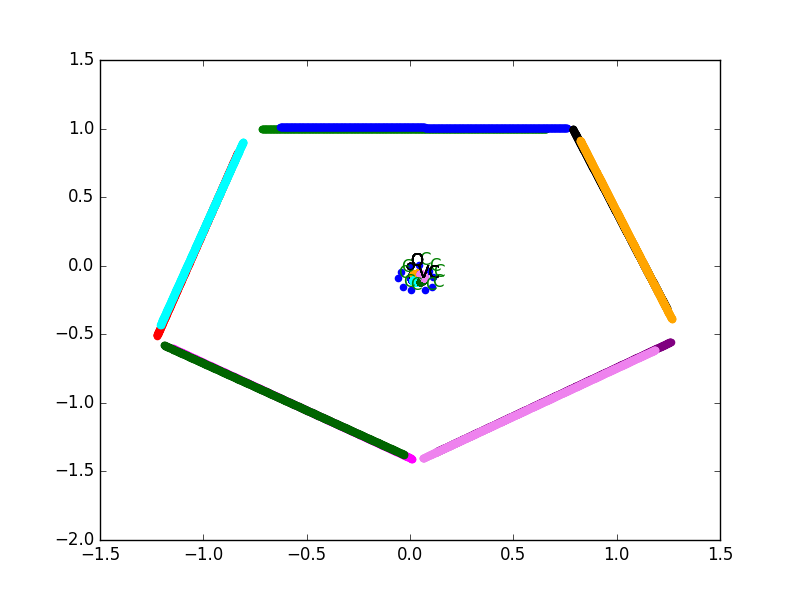
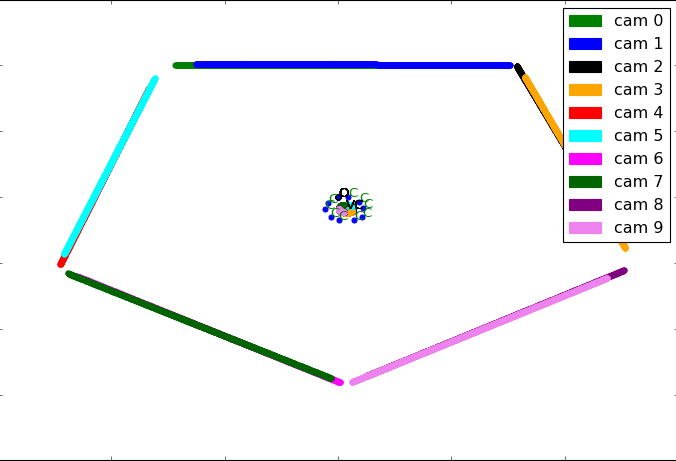
- changing plots from cv.imshow to matplotlib for convenience - Removed other unwanted functions - adding more results - modified readme

diff --git a/src/testapp_denseflow.py b/src/testapp_denseflow.py
@@ -1,105 +1,46 @@
-#!/usr/bin/env python
-
-'''
-example to show optical flow
-USAGE: opt_flow.py [<video_source>]
-Keys:
- 1 - toggle HSV flow visualization
- 2 - toggle glitch
-Keys:
-    ESC    - exit
-'''
-
-# Python 2/3 compatibility
-from __future__ import print_function
-
-import numpy as np
-import cv2
-import os
+from viewSynth import *
+from SJPImage import *
+import argparse
+import matplotlib.pyplot as pyplt
 
 
-def draw_flow(img, flow, step=16):
-    h, w = img.shape[:2]
-    y, x = np.mgrid[step/2:h:step, step/2:w:step].reshape(2,-1).astype(int)
-    fx, fy = flow[y,x].T
-    lines = np.vstack([x, y, x+fx, y+fy]).T.reshape(-1, 2, 2)
-    lines = np.int32(lines + 0.5)
-    vis = cv2.cvtColor(img, cv2.COLOR_GRAY2BGR)
-    cv2.polylines(vis, lines, 0, (0, 255, 0))
-    for (x1, y1), (x2, y2) in lines:
-        cv2.circle(vis, (x1, y1), 1, (0, 255, 0), -1)
-    return vis
+def arg_setup():
+    ap = argparse.ArgumentParser()
+    ap.add_argument("-f", "--first", required=True, help="path to image file")
+    # ap.add_argument("-s", "--second", required=True, help="path to calibration file")
+    args = vars(ap.parse_args())
+    return args
 
 
-def draw_hsv(flow):
-    h, w = flow.shape[:2]
-    fx, fy = flow[:,:,0], flow[:,:,1]
-    ang = np.arctan2(fy, fx) + np.pi
-    v = np.sqrt(fx*fx+fy*fy)
-    hsv = np.zeros((h, w, 3), np.uint8)
-    hsv[...,0] = ang*(180/np.pi/2)
-    hsv[...,1] = 255
-    hsv[...,2] = np.minimum(v*4, 255)
-    bgr = cv2.cvtColor(hsv, cv2.COLOR_HSV2BGR)
-    return bgr
+
+def test_optical_flow():
+    """
+    Function to test optical flow
+    """
+    args = arg_setup()
+    image_file = args["first"]
+
+    ic0 = SJPImageCollection()
+    ic0.loadImagesFromYAML(image_file, 'frame0')
+
+    of = OpticalFlowCalculator()
+    im0 = ic0[7]
+    im1 = ic0[4]
+    flow_01 = of.calculateFlow(im0.getImage(), im1.getImage())
+    warped_image = of.warpImageWithFlow(im1.getImage(), flow_01)
+    flow_hsv = of.getFlowInHSV(flow_01)
+    # Plot stuff
+    pyplt.subplot(221), pyplt.imshow(im0.getImage()), pyplt.title('Frame 1'), pyplt.axis('off')
+    pyplt.subplot(222), pyplt.imshow(im1.getImage()), pyplt.title('Frame 2'), pyplt.axis('off')
+    pyplt.subplot(223), pyplt.imshow(warped_image), pyplt.title('Warped Image'), pyplt.axis('off')
+    pyplt.subplot(224), pyplt.imshow(flow_hsv), pyplt.title('Flow magnitude'), pyplt.axis('off')
+    pyplt.show()
 
 
-def warp_flow(img, flow):
-    h, w = flow.shape[:2]
-    flow = -flow
-    flow[:,:,0] += np.arange(w)
-    flow[:,:,1] += np.arange(h)[:,np.newaxis]
-    res = cv2.remap(img, flow, None, cv2.INTER_LINEAR)
-    return res
+def main():
+    test_optical_flow()
+
 
 if __name__ == '__main__':
-    import sys
-    print(__doc__)
-    try:
-        fn = sys.argv[1]
-    except IndexError:
-        fn = 0
+    main()
 
-    #cam = video.create_capture(fn)
-    #ret, prev = cam.read()
-    path = "record0/cam0/"
-    path1 = path + "0000000"
-    prev = cv2.imread(path1 + "000" + ".png")
-    prevgray = cv2.cvtColor(prev, cv2.COLOR_BGR2GRAY)
-    show_hsv = False
-    show_glitch = False
-    cur_glitch = prev.copy()
-
-    mylist = os.listdir(path)  # dir is your directory path
-    pics = len(mylist)
-    for index in range(1, pics):
-        if index < 10:
-            img = cv2.imread(path1 + "00" + str(index) + ".png")
-        elif index < 100:
-            img = cv2.imread(path1 + "0" + str(index) + ".png")
-        else:
-            img = cv2.imread(path1 + str(index) + ".png")
-        #ret, img = cam.read()
-        gray = cv2.cvtColor(img, cv2.COLOR_BGR2GRAY)
-        flow = cv2.calcOpticalFlowFarneback(prevgray, gray, None, 0.5, 3, 15, 3, 5, 1.2, 0)
-        prevgray = gray
-
-        cv2.imshow('flow', draw_flow(gray, flow))
-        if show_hsv:
-            cv2.imshow('flow HSV', draw_hsv(flow))
-        if show_glitch:
-            cur_glitch = warp_flow(cur_glitch, flow)
-            cv2.imshow('glitch', cur_glitch)
-
-        ch = cv2.waitKey(5)
-        if ch == 27:
-            break
-        if ch == ord('1'):
-            show_hsv = not show_hsv
-            print('HSV flow visualization is', ['off', 'on'][show_hsv])
-        if ch == ord('2'):
-            show_glitch = not show_glitch
-            if show_glitch:
-                cur_glitch = img.copy()
-            print('glitch is', ['off', 'on'][show_glitch])
-cv2.destroyAllWindows()

diff --git a/src/renderer.py b/src/renderer.py
@@ -3,6 +3,7 @@ import numpy as np
 from cameras import *
 from RayGeometry import *
 from viewSynth import *
+import matplotlib.patches as mpatches
 
 
 class RendererODS():
@@ -96,6 +97,7 @@ class RendererODS():
 				viewing_circle = getCirclePoints(viewing_circle_centre, ipd/2)
 				ax.scatter(viewing_circle[:, 0],viewing_circle[:, 1], color='red')
 
+			legend_labels = []
 			for i in range(0, 10):
 				image_width = int(self.camera_list[i].resolution[0])
 				if eye is 1:
@@ -116,7 +118,9 @@ class RendererODS():
 					# Plot where the start, middle and end of an image are mapped in the global frame of reference
 					ax.scatter(point_in_3d[0], point_in_3d[2], color=self.color_list[i])
 					ax.scatter(point[0], point[1], color=self.color_list[i])
-
+				# Set legend labels
+				legend_labels.append(mpatches.Patch(color=self.color_list[i], label='cam ' + str(i)))
+			pyplt.legend(handles=legend_labels)
 			pyplt.show()
 
 
@@ -335,7 +339,6 @@ class RendererODS():
 				# Get horizontal flow for the current column
 				ver_flow = flow[row_id, col_id, 0]
 				hor_flow = flow[row_id, col_id, 1]
-
 				col_id_correspondence = col_id + hor_flow
 				row_id_correspondence = row_id + ver_flow
 				ray_second = camSecond.getRayForPixelInGlobalRef(col_id_correspondence, row_id_correspondence)
@@ -403,13 +406,13 @@ class RendererODS():
 		for cam in range(cam_start, cam_end, 2):
 			tempL2R = self.viewInterpolate(camera_order[cam], camera_order[cam+1], 
 				camera_order[cam], camera_order[cam+1], width, direction='left2right',
-				origin=origin, ipd=ipd, eye=eye, vi_type='pwise')
+				origin=origin, ipd=ipd, eye=eye, vi_type='cwise')
 			output_image = output_image + tempL2R
 
 		for cam in range(cam_start, cam_end, 2):
 			tempL2R = self.viewInterpolate(camera_order[cam], camera_order[cam+1], 
 				camera_order[cam], camera_order[cam+1], width, direction='right2left',
-				origin=origin, ipd=ipd, eye=eye, vi_type='pwise')
+				origin=origin, ipd=ipd, eye=eye, vi_type='cwise')
 			output_image = output_image + tempL2R
 
 		return output_image

diff --git a/src/testapp_JumpRendererMain.py b/src/testapp_JumpRendererMain.py
@@ -1,6 +1,7 @@
 from renderer import *
 from cameras import *
 from SJPImage import *
+import matplotlib.pyplot as pyplt
 import argparse
 import scipy.misc
 
@@ -38,20 +39,19 @@ def test_ODS_renderer():
 	rods.setImageList(ic0)
 	rods.setCameraList(cc)
 
-	# pan_for_eye = rods.render360WithViewInterpolation(0.062, [480, 960], eye=-1)
-	# cv2.imshow('ODS panaroma: ', pan_for_eye)
+	pan_for_eye = rods.render360WithViewInterpolation(0.062, [480, 2000], eye=-1)
+	pyplt.subplot(211), pyplt.imshow(pan_for_eye), pyplt.axis('off'), pyplt.title('360 - View interpolation')
 
 	# This function goes over every camera in the list and plots image planes in the global frame. 
 	# These points are also mapped onto the viewing circle.
 	# rods.rigVisTest(0.062, [480, 960], eye=-1)
 
-	# vis_image_right = rods.render360NoInterpolation(0.062, [480, 960], eye=1)
-	# cv2.imshow('Projection centres right: ', vis_image_right)
-	vis_image_left = rods.render360NoInterpolation(0.062, [480, 960], eye=-1)
-	cv2.imshow('Projection centres left: ', vis_image_left)
-	
+	# vis_image_right = rods.render360NoInterpolation(0.062, [480, 2000], eye=1)
+	# pyplt.subplot(211), pyplt.imshow(vis_image_right), pyplt.axis('off'), pyplt.title('360 - No interpolation - Left eye')
+	# vis_image_left = rods.render360NoInterpolation(0.062, [480, 2000], eye=-1)
+	# pyplt.subplot(212), pyplt.imshow(vis_image_left), pyplt.axis('off'), pyplt.title('360 - No interpolation - Right eye eye')
 	# scipy.misc.imsave('fifth_stitch.jpg', vis_image_left)
-	cv2.waitKey(0)
+	pyplt.show()
 
 
 def test_data_loader():

diff --git a/src/testapp_homographystitch.py b/src/testapp_homographystitch.py
@@ -1,6 +1,7 @@
 from Stitcher import *
 import imutils
 import cv2
+import matplotlib.pyplot as pyplt
 import argparse
 
 
@@ -17,18 +18,19 @@ def testImageStitcher():
 	image2 = cv2.imread(args["second"])
 	image1 = imutils.resize(image1, width=400)
 	image2 = imutils.resize(image2, width=400)
-	print(image1.shape, image2.shape)
+	# print(image1.shape, image2.shape)
 
 	# Call our stitch function
 	stitcher = Stitcher()
 	(pan, vis) = stitcher.stitch(image2, image1, showMatches=True)
 	# Display routines
-	cv2.imshow("Image 1", image1)
-	cv2.imshow("Image 2", image2)
-	cv2.imshow("Key point matches", vis)
-	cv2.imshow("Stitched result", pan)
-	cv2.waitKey(0)
-	cv2.imwrite(args["result"], pan)
+	pyplt.subplot(221), pyplt.imshow(image1), pyplt.title('Image 1'), pyplt.axis('off')
+	pyplt.subplot(222), pyplt.imshow(image2), pyplt.title('Image 2'), pyplt.axis('off')
+	pyplt.subplot(223), pyplt.imshow(vis), pyplt.title('Keypoint matches'), pyplt.axis('off')
+	pyplt.subplot(224), pyplt.imshow(pan), pyplt.title('Perspective warp'), pyplt.axis('off')
+	pyplt.show()
+	if args["result"] is not None:
+		cv2.imwrite(args["result"], pan)
 
 
 def buildPanaroma():

diff --git a/src/viewSynth.py b/src/viewSynth.py
@@ -13,8 +13,6 @@ class OpticalFlowCalculator:
 	def calculateFlow(self, current_f, next_f):
 		cf = cv2.cvtColor(current_f, cv2.COLOR_BGR2GRAY)
 		nf = cv2.cvtColor(next_f, cv2.COLOR_BGR2GRAY)
-		#cf=current_f
-		#nf=next_f
 		flow = cv2.calcOpticalFlowFarneback(cf, nf, None, 0.5, 3, 15, 3, 5, 1.2, 0)
 		return flow
 
@@ -29,6 +27,15 @@ class OpticalFlowCalculator:
 		hsv[...,2] = np.minimum(v*4, 255)
 		bgr = cv2.cvtColor(hsv, cv2.COLOR_HSV2BGR)
 		return bgr
+
+	def warpImageWithFlow(self, img, flow):
+		h, w = flow.shape[:2]
+		flow = -flow
+		# print(np.arange(w).shape)
+		flow[:,:,0] += np.arange(w)
+		flow[:,:,1] += np.arange(h)[:,np.newaxis]
+		res = cv2.remap(img, flow, None, cv2.INTER_LINEAR)
+		return res
 
 	def showQuiverPlot(self, flow):
 		rows = flow.shape[0]

diff --git a/src/RayGeometry.py b/src/RayGeometry.py
@@ -188,18 +188,6 @@ def xzToTheta(xz, origin):
 	vec = xz-origin
 	return np.arctan2(vec[1], vec[0])
 
-def mapCameraToSphere(camera_pos, origin, ipd, eye=1):
-	point_on_circle = np.asarray(getPointOnVC(origin, camera_pos, ipd, eye=eye))
-	return thetaToNormalizedX(xzToTheta(point_on_circle, origin))
-
-def mapPointToPanaromaAngle(point, origin, ipd, eye=1):
-	point_on_circle = np.asarray(getPointOnVC(origin, point, ipd, eye=eye))
-	return xzToTheta(point_on_circle, origin)
-
-def mapPointToPanaromaColumn(point, origin, ipd, eye=1):
-	global_theta = mapPointToPanaromaAngle(point, origin, ipd, eye)
-	return thetaToNormalizedX(global_theta)
-
 
 def mapPointToODSAngle(point, origin, ipd, eye=1):
 	dist = np.linalg.norm(np.asarray(point)-np.asarray(origin))

diff --git a/src/cameras.py b/src/cameras.py
@@ -74,6 +74,7 @@ class Camera:
     def getRayForPixelInGlobalRef(self, col, row):
         self.cameraSanityCheck()
         local_ray = self.getRayForPixelInLocalRef(col, row)
+        # local_ray = unit_vector(local_ray)
         ray_homogeneous = np.append(local_ray, 1)
         global_ray = np.dot(self.extrinsics_absolute, ray_homogeneous)
         return global_ray[0:3]

diff --git a/src/Stitcher.py b/src/Stitcher.py
@@ -34,8 +34,8 @@ class Stitcher:
 		result = np.zeros((image2.shape[1]+image1.shape[1], image2.shape[0]))
 		size_res = (result.shape)
 		temp = cv2.warpPerspective(image1, H, size_res)
-		print(H)
-		print(H.shape)
+		# print(H)
+		# print(H.shape)
 		result = temp
 		result[0:image2.shape[0], 0:image2.shape[1]] = image2
 

diff --git a/README.md b/README.md
@@ -7,26 +7,68 @@ The camera rig in our dataset consists of 10 cameras setup as shown below.
 
 Though for ideal ODS rendering, we would like our cameras to be oriented radially outwards from the viewing circle, our rig 
 consists of pairs of stereoscopic cameras. The images captured by the rig, as visualized on the 'xz' plane are as shown below. 
+Each image plane is shown in a different color. 
 ![camera-rig-detailed](results/rig_detailed.png)
 
-We see that the rig is primarily composed of 5 stereo pairs. The overlap between adjacent stereo pairs is very minimal. Therefore, 
-though we have 10 cameras, we predominantly see only 5 image planes resembling a pentagon. 
+We see that the rig is primarily composed of 5 stereo pairs. The overlap between adjacent stereo pairs (cam0-cam1 and cam2-cam3) is very minimal. Therefore, though we have 10 cameras, we predominantly see only 5 image planes resembling a pentagon. 
 
-On mapping these images onto the viewing circle for the left eye, we get the figure below. 
+On mapping these images onto the viewing circle for the left eye, we get the figure below.
 ![camera-rig-detailed-closeup](results/rig_detailed_closeup.png)
 
 ## 360 rendering without view interpolation
+In the simplest form, after mapping each image to its proper location in the viewing circle, we can directly synthesize an image in 360 without view interpolation. 
 ![360-no-interpolation](results/ODS-renderer-results/frame0_nointerpolation.png)
 ## 360 rendering with column wise flow for view interpolation
+In this case, we consider the average flow for every column in the image and perform the linear view interpolation proposed by the authors. 
 ![360-cwise-interpolation](results/ODS-renderer-results/frame0_lefteye_cwise.png)
 ## 360 rendering with pixel wise flow for view interpolation
+Here, as opposed to considering only the average flow for every column, each pixel's flow in mapping it to the right location in
+the final ODS stitch. 
 ![360-pwise-interpolation](results/ODS-renderer-results/frame0_lefteye_pwise.png)
+
+Likewise, results for the other eye can be rendered easily with our ODS renderer. This can be done by setting the argument 'eye=1'
+when calling the function RendererODS.render360WithViewInterpolation(eye=1). 
 
 ## Challenges with view interpolation
 Given the small baseline between two images within a stereo pair, view interpolation with optical flow is easy. 
 However due to the large baseline between adjacent stereo pairs, synthesizing images between adjacent stereo pairs with optical flow is
 challenging. This is because when computing the optical flow between two such images, it is almost such that these two images are
 two completely different scenes. Hence using optical flow for dense correspondences fails.
+
+This problem is highlighted with the help of the following results. 
+
+Dense optical with opencv's Farneback optical flow technique (Farneback '03) works well when there is a good overlap between 
+two scenes. When computing the optical flow between the image captured from cam0 and cam1, the optical flow is pretty accurate.
+In the bottom right image, only the horizontal flow's is visualized as it is a measure of the per-pixel disparity.
+![opticalflow-good-cam01](results/optical-flow/cam0-cam1-proper.png)
+
+Optical flow properly estimated between images from cameras 4 and 5. 
+![opticalflow-good-cam45](results/optical-flow/cam4-cam5-proper.png)
+
+However, when we attempt of compute optical flow between the images captured by cam1 and cam2; where there is very low overlap
+and therefore the two images look quite different from each other, the optical flow estimate is very wrong. This is as shown 
+in the figure below. 
+![opticalflow-bad-cam50](results/optical-flow/cam5-cam0-bad.png)
+
+Another instance of bad optical flow; this time between cameras 7 and 4. 
+![opticalflow-bad-cam74](results/optical-flow/cam7-cam4-bad.png)
+
+For obtainining correspondences between such wide baseline images, we tried to use standard feature matching techniques such as
+those based on SIFT features. We found these methods to be much better at finding correspondences in diverse scenes than the flow based technique. This is shown in the figure below.
+### Finding correspondence using SIFT between cameras 7 and 4.
+![sift-good-cam74](results/homography-stitch/cam7-cam4-good.png)
+### Finding correspondence using SIFT between cameras 5 and 0.
+![sift-good-cam50](results/homography-stitch/cam5-cam0-good.png)
+
+The problem with this method however is that the correspondences obtained are very sparse to do proper view interpolation. Also, this method of estimating correspondences doesn't seem to always work. For example, look at what happens when the same key point matching 
+that works so well for stitching together (cam5 and cam0) and (cam7 and cam4), fails when stitching (cam1 and cam2). 
+### Finding correspondence using SIFT between cameras 1 and 2.
+![sift-bad-cam12](results/homography-stitch/cam1-cam2-bad.png)
+
+In the results that we have shown above, we perform view interpolation only between two images in the same stereo pair; i.e
+between images from (cam0, cam1), (cam2-cam3) etc. No iterpolation is performed between (cam1-cam2) because of the problems mentioned
+herein.
+
 
 # Source file descriptions
 ## Core 
